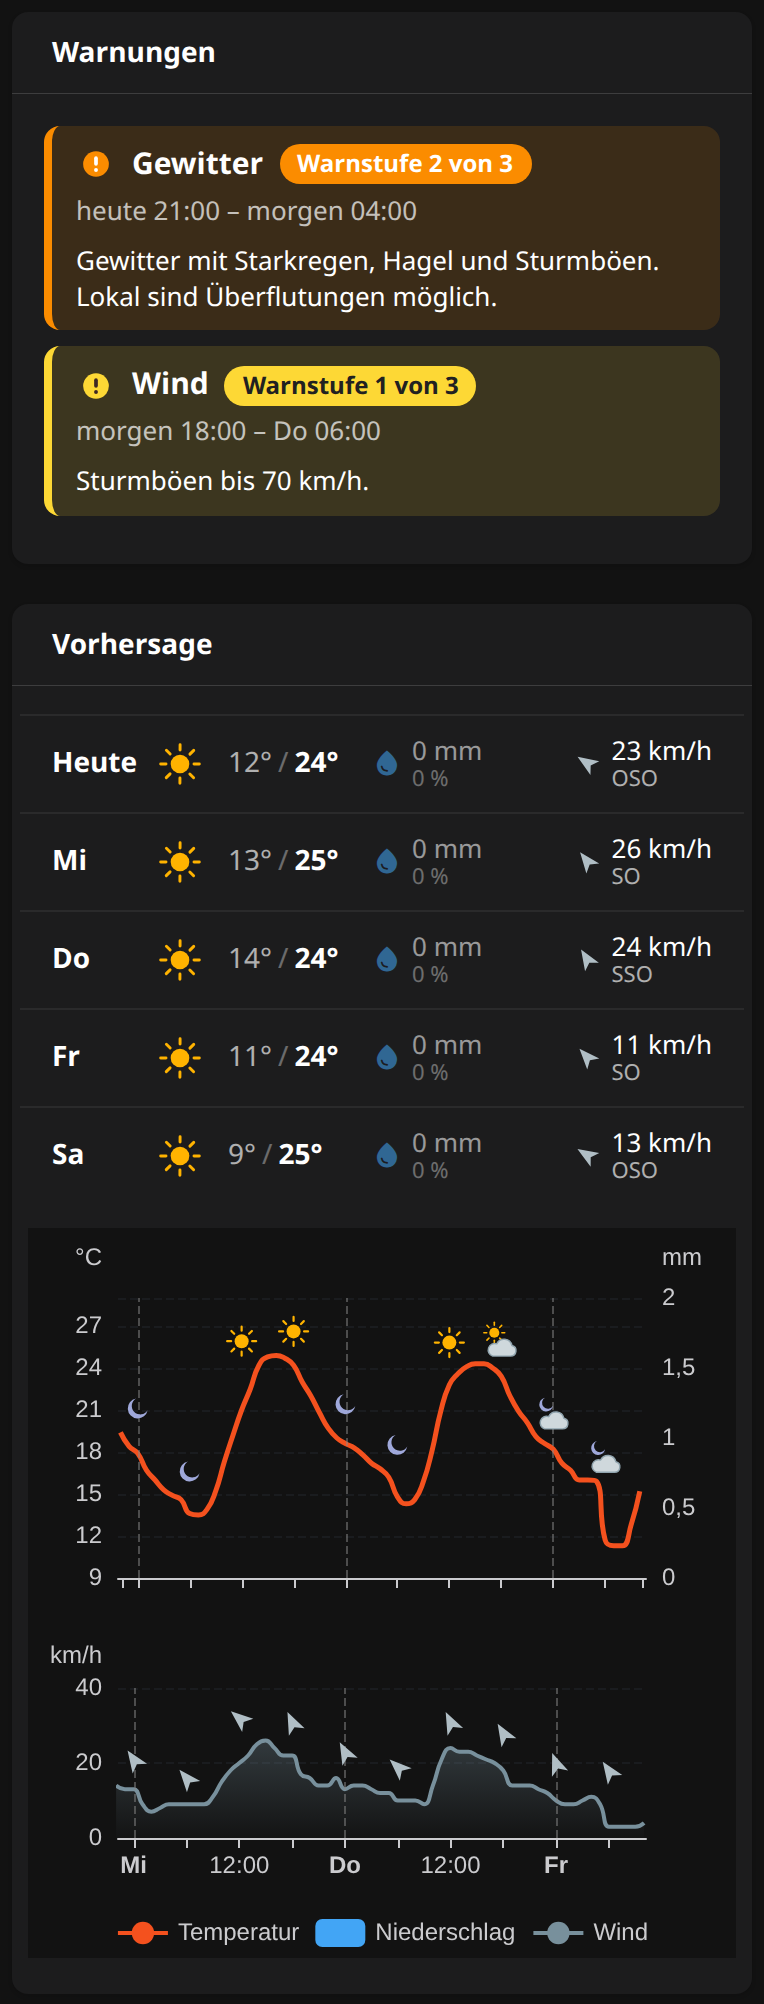
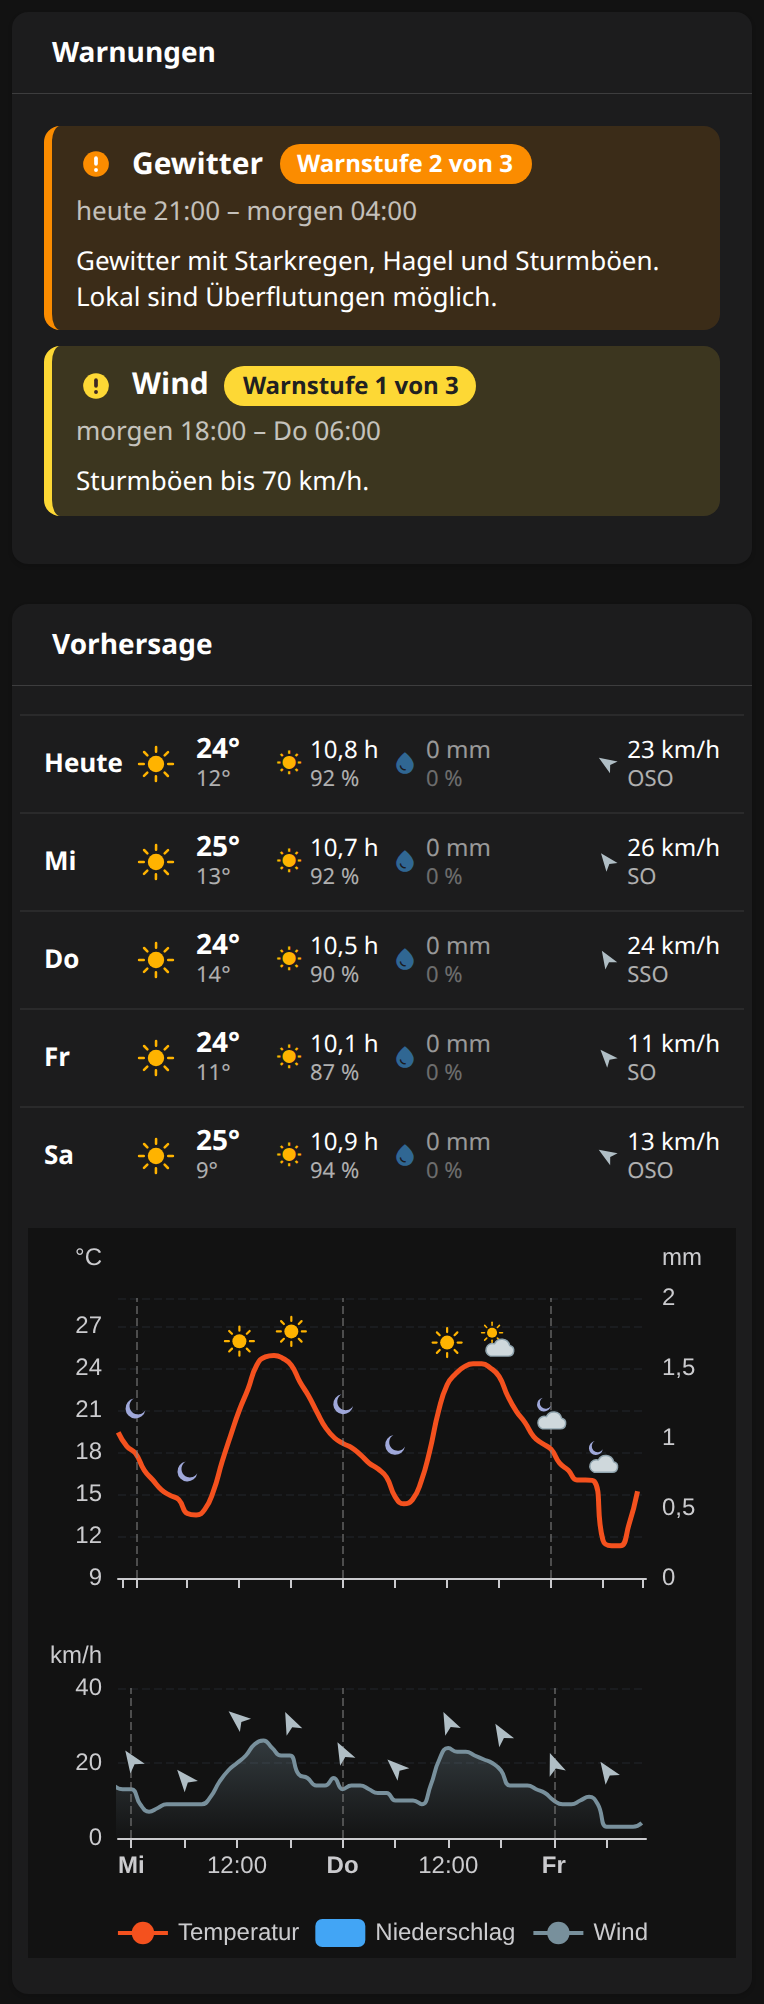
scripts: sunshine per day, German push notifications
- weather_forecast writes each day's hours of sunshine and their share of
  the daylight, sunrise to sunset being 100 %, into weather_daily
- The forecast popup's day rows show them beside a small sun; every cell
  but the precipitation's has a fixed width so the days line up, and on a
  phone the maximum stands over the minimum with slightly smaller icons,
  type and gaps, so a row fits down to 360 px
- Every push notification of the rules is German (notifications_de_update.py,
  wm2_rule.py follows); numbers in them are whole as the items show them
- README text follows, forecast popup screenshots re-shot

diff --git a/scripts/openhab-ui/applied/weather_forecast_rule.js b/scripts/openhab-ui/applied/weather_forecast_rule.js
@@ -21,7 +21,8 @@
 //                   wind direction ° (where it comes from, 0 north, 90 east), WMO code, 1 by day or 0 by night], ...]
 // weather_daily: [{t: epoch seconds of the day's midnight, c: WMO code, lo, hi: °C, p: precipitation mm,
 //                  pp: probability of precipitation % (best match) or null, w: maximum wind km/h,
-//                  wd: the day's dominant wind direction °}, ...]
+//                  wd: the day's dominant wind direction °, s: sunshine h,
+//                  sp: sunshine in % of the daylight, the most the sun could shine}, ...]
 const BASE = 'https://api.open-meteo.com/v1/forecast?latitude=48.21&longitude=16.37&timezone=Europe%2FVienna'
   + '&forecast_days=5&timeformat=unixtime'
   + '&current=weather_code,is_day,precipitation,cloud_cover_low,cloud_cover_mid,cloud_cover_high'
@@ -129,11 +130,15 @@ function day(arome, best, t) {
     return null;
   }
   const v = (field) => value([model], 'daily', field, t);
-  return {t: t, c: dayCode(v('weather_code'), v('precipitation_sum'), v('sunshine_duration'), v('daylight_duration')),
+  const sunshine = v('sunshine_duration');
+  const daylight = v('daylight_duration');
+  return {t: t, c: dayCode(v('weather_code'), v('precipitation_sum'), sunshine, daylight),
           lo: round(v('temperature_2m_min'), 1), hi: round(v('temperature_2m_max'), 1),
           p: round(v('precipitation_sum'), 1), pp: value([best], 'daily', 'precipitation_probability_max', t),
           w: round(v('wind_speed_10m_max'), 0),
-          wd: round(value([model, best], 'daily', 'wind_direction_10m_dominant', t), 0)};
+          wd: round(value([model, best], 'daily', 'wind_direction_10m_dominant', t), 0),
+          s: sunshine == null ? null : round(sunshine / 3600, 1),
+          sp: sunshine == null || !daylight ? null : Math.round(sunshine / daylight * 100)};
 }
 
 // the last run's list of an item, or none

diff --git a/scripts/openhab-ui/dashboard.py b/scripts/openhab-ui/dashboard.py
@@ -978,6 +978,7 @@ def weather_warnings_card():
 
 # the forecast chart's three series: temperature over precipitation in the upper grid, wind in the lower
 WX_TEMP_COLOR, WX_RAIN_COLOR, WX_WIND_COLOR = "#f4511e", "#42a5f5", "#78909c"
+WX_SUN_COLOR = "#ffb300"  # the sun's of the weather drawings
 # the wind's direction as the forecast gives it, the degrees it comes from (0 north, 90 east), drawn as an arrow the way
 # it blows, pointing up at 0 before it is turned; the 16 points of the compass in German, O for east
 WX_ARROW = "M12,3 L18.5,19.5 L12,15.5 L5.5,19.5 Z"
@@ -1093,36 +1094,52 @@ def weather_forecast_chart():
 
 
 def wx_day_row():
-    """A day of the popup: its name, the weather drawn, minimum and maximum, precipitation with its probability
-    under it, and the strongest wind with an arrow of the day's main direction and its compass point under it."""
+    """A day of the popup: its name, the weather drawn, minimum and maximum, the hours of sunshine with their share
+    of the daylight under it, precipitation with its probability under it, and the strongest wind with an arrow of the
+    day's main direction and its compass point under it. On a phone the maximum stands over the minimum, as every
+    other cell stands its second value under its first, and icons, type and gaps are a little smaller, so a day keeps
+    its line down to 360 px."""
     d = "loop.day"
+    n = NARROW
     name = f"(dayjs({d}.t * 1000).isSame(dayjs(), 'day') ? 'Heute' : {WX_WEEKDAYS}[dayjs({d}.t * 1000).day()])"
     degrees = lambda v: f"({v} == null ? '–' : Math.round({v}) + '°')"
     rain = f"({d}.p == null ? '–' : {d}.p < 0.05 ? '0 mm' : {fixed(d + '.p', 1)} + ' mm')"
-    small_icon = lambda icon, color: comp("oh-icon", {"icon": icon, "width": 15, "height": 15,
+    sun = f"({d}.s == null ? '–' : {fixed(d + '.s', 1)} + ' h')"
+    icon_size = f"={n} ? 13 : 15"
+    small_icon = lambda icon, color: comp("oh-icon", {"icon": icon, "width": icon_size, "height": icon_size,
                                                       "style": {"color": color, "flex": "0 0 auto"}})
-    cell = {"display": "flex", "align-items": "center", "gap": "5px", "font-size": "13px", "white-space": "nowrap"}
+    cell = {"display": "flex", "align-items": "center", "gap": f"={n} ? '4px' : '5px'",
+            "font-size": f"={n} ? '12px' : '13px'", "white-space": "nowrap"}
+    sub = {"font-size": "11px", "opacity": "0.65", "line-height": "13px"}
+
+    def pair(first, second, second_visible):
+        return div([label(f"={first}", **{"line-height": "16px"}), label(f"={second}", visible=second_visible, **sub)],
+                   **{"display": "flex", "flex-direction": "column"})
+    temps = div([label(f"={degrees(d + '.lo')}", **{"opacity": "0.65", "font-size": f"={n} ? '11px' : '14px'",
+                                                     "line-height": f"={n} ? '13px' : '18px'"}),
+                 label("/", visible=f"=!({n})", **{"opacity": "0.35"}),
+                 label(f"={degrees(d + '.hi')}", **{"font-weight": "700", "line-height": f"={n} ? '16px' : '18px'"})],
+                **{"display": "flex", "flex-direction": f"={n} ? 'column-reverse' : 'row'",
+                   "gap": f"={n} ? '0' : '3px'", "font-size": "14px", "white-space": "nowrap"})
     return div([
-        label(f"={name}", **{"font-size": "14px", "font-weight": "600"}),
-        weather_icon(f"{d}.c", "true", 32),
-        wx_min_max(degrees(f"{d}.lo"), degrees(f"{d}.hi"), "14px"),
-        div([small_icon("material:water_drop", WX_RAIN_COLOR),
-             div([label(f"={rain}", **{"line-height": "16px"}),
-                  label(f"={d}.pp + ' %'", visible=f"={d}.pp != null",
-                        **{"font-size": "11px", "opacity": "0.65", "line-height": "13px"})],
-                 **{"display": "flex", "flex-direction": "column"})],
+        label(f"={name}", **{"font-size": f"={n} ? '13px' : '14px'", "font-weight": "600"}),
+        weather_icon(f"{d}.c", "true", f"={n} ? 28 : 32"),
+        temps,
+        # the share of the daylight, from sunrise to sunset, the most the sun could shine
+        div([small_icon("material:wb_sunny", WX_SUN_COLOR), pair(sun, f"{d}.sp + ' %'", f"={d}.sp != null")],
+            **cell),
+        div([small_icon("material:water_drop", WX_RAIN_COLOR), pair(rain, f"{d}.pp + ' %'", f"={d}.pp != null")],
             **{**cell, "opacity": f"=({d}.p || 0) < 0.05 ? '0.55' : '1'"}),
         # the plain wind icon until the forecast brings a direction
-        div([wx_wind_arrow(f"{d}.wd", 15, f"={d}.wd != null"),
-             comp("oh-icon", {"icon": "material:air", "width": 15, "height": 15, "visible": f"={d}.wd == null",
-                              "style": {"color": WX_WIND_COLOR, "flex": "0 0 auto"}}),
-             div([label(f"=({d}.w == null ? '–' : {d}.w) + ' km/h'", **{"line-height": "16px"}),
-                  label(f"={wx_compass(d + '.wd')}", visible=f"={d}.wd != null",
-                        **{"font-size": "11px", "opacity": "0.65", "line-height": "13px"})],
-                 **{"display": "flex", "flex-direction": "column"})],
+        div([wx_wind_arrow(f"{d}.wd", icon_size, f"={d}.wd != null"),
+             comp("oh-icon", {"icon": "material:air", "width": icon_size, "height": icon_size,
+                              "visible": f"={d}.wd == null", "style": {"color": WX_WIND_COLOR, "flex": "0 0 auto"}}),
+             pair(f"({d}.w == null ? '–' : {d}.w) + ' km/h'", wx_compass(d + '.wd'), f"={d}.wd != null")],
             **{**cell, "justify-content": "flex-end"}),
-    ], **{"display": "grid", "grid-template-columns": "40px 32px 64px 1fr auto", "align-items": "center",
-          "column-gap": "8px", "min-height": "40px", "padding": "4px 16px",
+    ], **{"display": "grid", "align-items": "center",
+          # fixed columns but the precipitation's, so the days' cells stand under each other
+          "grid-template-columns": f"={n} ? '36px 28px 34px 52px 1fr auto' : '40px 32px 64px 58px 1fr auto'",
+          "column-gap": f"={n} ? '6px' : '8px'", "min-height": "40px", "padding": f"={n} ? '4px 12px' : '4px 16px'",
           "border-top": "1px solid rgba(127, 127, 127, 0.15)"})
 
 

diff --git a/scripts/openhab-ui/applied/notifications_de_update.py b/scripts/openhab-ui/applied/notifications_de_update.py
@@ -1,0 +1,67 @@
+#!/usr/bin/env python3
+"""Give every push notification of the rules a German text: the appliances' finished messages, the refrigerator's and
+the water meter's warnings, the heat pump's and the water meter's errors and the ventilation's CO2 alerts. Numbers are
+formatted as the items show them (whole degrees, U/min, ppm); texts the devices send (Miele programmes and drying
+targets, set to German by the account's locale; the water meter's error text) pass through as they come.
+Usage: notifications_de_update.py check|apply   (with openHAB stopped for apply)"""
+import os
+import sys
+HERE = os.path.dirname(os.path.abspath(__file__))
+src = open(os.path.join(HERE, "..", "awattar_migrate.py")).read().replace("\nmain()\n", "\n")
+m = type(sys)("m")
+exec(compile(src, "awattar_migrate", "exec"), m.__dict__)
+NAME = "automation_rules.json"
+REPLACE = {
+    "dishwasher_finished": [
+        ("'Dishwasher is ready!'", "'Geschirrspüler ist fertig!'")],
+    "tumble_dryer_finished": [
+        ("'Tumble Dryer is ready!'", "'Wäschetrockner ist fertig!'")],
+    "washing_machine_1_finished": [
+        ("'Washing Machine 1 is ready!'", "'Waschmaschine 1 ist fertig!'")],
+    "washing_machine_2_finished": [
+        ("'Washing Machine 2 is ready!'", "'Waschmaschine 2 ist fertig!'")],
+    "miele_dishwasher_finished": [
+        ("'Miele Dishwasher is ready!\\nProgram: '", "'Miele Geschirrspüler ist fertig!\\nProgramm: '")],
+    "miele_tumble_dryer_finished": [
+        ("'Miele Tumble Dryer is ready!\\nProgram: '", "'Miele Wäschetrockner ist fertig!\\nProgramm: '"),
+        ("'\\nDrying Target: '", "'\\nTrocknungsziel: '")],
+    "miele_washing_machine_finished": [
+        ("'Miele Washing Machine is ready!\\nProgram: '", "'Miele Waschmaschine ist fertig!\\nProgramm: '"),
+        ("message += '\\nTarget Temperature: ' + target_temp_item.state;",
+         "message += '\\nZieltemperatur: ' + Math.round(target_temp_item.numericState) + ' °C';"),
+        ("message += '\\nSpinning Speed: ' + spinning_speed_item.state;",
+         "message += '\\nSchleuderdrehzahl: ' + Math.round(spinning_speed_item.numericState) + ' U/min';")],
+    "refrigerator_watchdog": [
+        ("'Warning: Refrigerator power consumption is above normal, the door is possibly open!'",
+         "'Warnung: Der Kühlschrank verbraucht mehr Strom als üblich, die Tür steht möglicherweise offen!'")],
+    "ventilation_management": [
+        ("'Netatmo Weatherstation: CO2 high at ' + co2_item.state",
+         "'Netatmo Wetterstation: CO2 hoch, ' + Math.round(co2_item.numericState) + ' ppm'"),
+        ("'Netatmo Weatherstation: CO2 back to normal at ' + co2_item.state",
+         "'Netatmo Wetterstation: CO2 wieder normal, ' + Math.round(co2_item.numericState) + ' ppm'")],
+    "heatpump_error": [
+        ("'Heatpump Error!\\nType: ' + error_type + '\\nCode: '",
+         "'Wärmepumpe meldet einen Fehler!\\nTyp: ' + ({Warning: 'Warnung', Error: 'Fehler'}[error_type] || error_type)\n"
+         "        + '\\nCode: '")],
+    "water_meter_error": [
+        ("'Water Meter Error!\\n' + error", "'Wasserzähler meldet einen Fehler!\\n' + error")],
+    "water_meter_watchdog": [
+        ("'Warning: Water meter is offline!'", "'Warnung: Der Wasserzähler ist offline!'"),
+        ("'Warning: Constant flow measured at water meter for ' + threshold_flow_minutes + ' minutes.\\nCheck for leaks!'",
+         "'Warnung: Der Wasserzähler misst seit ' + threshold_flow_minutes + ' Minuten ununterbrochen Durchfluss.\\n'\n"
+         "        + 'Bitte auf Lecks prüfen!'")],
+}
+data, enc = m.detect(m.DB + NAME)
+for uid, pairs in REPLACE.items():
+    (action,) = data[uid]["value"]["actions"]
+    script = action["configuration"]["script"]
+    for old, new in pairs:
+        assert script.count(old) == 1, (uid, old)
+        script = script.replace(old, new)
+    action["configuration"]["script"] = script
+    print(f"{uid}: {len(pairs)} text(s)")
+text = m.encode(data, *enc)
+print(f"{NAME}: encoder html={enc[0]} newline={enc[1]} ok; {len(REPLACE)} rules")
+if sys.argv[1] == "apply":
+    open(m.DB + NAME, "w", encoding="utf-8").write(text)
+    print("written")

diff --git a/scripts/openhab-ui/i18n/de_labels.py b/scripts/openhab-ui/i18n/de_labels.py
@@ -282,7 +282,7 @@ RULE_DESCRIPTIONS = {
     "heatpump_dcop": "Berechnet jede Minute die Tages-COPs aus den Energie-Integralen von heatpump_metering; das 5-Sekunden-Fenster um Mitternacht in persistCop ist Absicht.",
     "heatpump_error": "Schickt eine Benachrichtigung mit Code und deutscher Beschreibung, wenn die Wärmepumpe einen anderen Fehlertyp als Normal meldet.",
     "heatpump_dhw_management": "Warmwasser-Steuerung: wählt den Warmwasser-Sollwert nach Tageszeit und PV-Überschuss und zwingt die Wärmepumpe über Smart Grid an, wenn der Speicher voll und der Überschuss hoch ist.",
-    "weather_forecast": "Holt um :07 und :37 jeder Stunde und beim Start das aktuelle Wetter, die nächsten 61 Stunden und fünf Tage von Open-Meteo, Modell GeoSphere AROME Austria (was es nicht abdeckt, aus dem Best Match), für Wien, mit der Windrichtung jeder Stunde und der vorherrschenden jedes Tages; das Wetter eines Tages folgt seinem Sonnenanteil, das jeder Stunde und das aktuelle den Wolkenschichten, Nebel, Niederschlag und Gewitter nur, wenn sie ins Gewicht fallen; wiederholt fehlgeschlagene Anfragen und behält Stunden und Tage, die ein Lauf nicht bringt, aus dem letzten Lauf.",
+    "weather_forecast": "Holt um :07 und :37 jeder Stunde und beim Start das aktuelle Wetter, die nächsten 61 Stunden und fünf Tage von Open-Meteo, Modell GeoSphere AROME Austria (was es nicht abdeckt, aus dem Best Match), für Wien, mit der Windrichtung jeder Stunde und der vorherrschenden jedes Tages sowie den Sonnenstunden jedes Tages und ihrem Anteil an der Tageslänge; das Wetter eines Tages folgt seinem Sonnenanteil, das jeder Stunde und das aktuelle den Wolkenschichten, Nebel, Niederschlag und Gewitter nur, wenn sie ins Gewicht fallen; wiederholt fehlgeschlagene Anfragen und behält Stunden und Tage, die ein Lauf nicht bringt, aus dem letzten Lauf.",
     "weather_warnings": "Holt alle 15 Minuten und beim Start die amtlichen Wetterwarnungen der GeoSphere Austria für Wien: die höchste Stufe der Warnungen, die jetzt oder in den nächsten 24 Stunden gelten, diese als Kurztext und alle noch nicht abgelaufenen Warnungen als JSON, für die Wetterleiste der Übersicht und ihr Popup; steigt die Stufe auf Orange oder Rot, geht eine Broadcast-Benachrichtigung hinaus.",
     "heatpump_metering": "Teilt die elektrische Leistung der Wärmepumpe in Heizung, Warmwasser und Standby, leitet die Heizleistung aus Durchfluss und Spreizung ab, berechnet momentane COPs und integriert alles mit einem gemeinsamen Zeitschritt zu den Energien von heute.",
     "home_energy": "Berechnet den Energieverbrauch des Hauses heute aus PV-Ertrag und Netzbezug/-einspeisung seit Mitternacht.",

diff --git a/scripts/openhab-ui/applied/weather_sunshine_update.py b/scripts/openhab-ui/applied/weather_sunshine_update.py
@@ -1,0 +1,23 @@
+#!/usr/bin/env python3
+"""Give the rule weather_forecast the script beside this script (weather_forecast_rule.js), which also writes each
+day's hours of sunshine and their share of the daylight into weather_daily, for the forecast popup's day rows.
+Usage: weather_sunshine_update.py check|apply   (with openHAB stopped for apply)"""
+import os
+import sys
+HERE = os.path.dirname(os.path.abspath(__file__))
+src = open(os.path.join(HERE, "..", "awattar_migrate.py")).read().replace("\nmain()\n", "\n")
+m = type(sys)("m")
+exec(compile(src, "awattar_migrate", "exec"), m.__dict__)
+sys.path.insert(0, os.path.join(HERE, "..", "i18n"))
+from de_labels import RULE_DESCRIPTIONS  # noqa: E402
+NAME = "automation_rules.json"
+data, enc = m.detect(m.DB + NAME)
+rule = data["weather_forecast"]["value"]
+(action,) = rule["actions"]
+action["configuration"]["script"] = open(os.path.join(HERE, "weather_forecast_rule.js")).read()
+rule["description"] = RULE_DESCRIPTIONS["weather_forecast"]
+text = m.encode(data, *enc)
+print(f"{NAME}: encoder html={enc[0]} newline={enc[1]} ok; weather_forecast script {len(action['configuration']['script'])} chars")
+if sys.argv[1] == "apply":
+    open(m.DB + NAME, "w", encoding="utf-8").write(text)
+    print("written")

diff --git a/scripts/openhab-ui/make_readme.py b/scripts/openhab-ui/make_readme.py
@@ -474,7 +474,8 @@ nodes: the sun, its rays turning slowly, or the moon while `day` is false, alone
 a small cloud when partly cloudy (1, 2); a cloud (3), raised over fog (45, 48), falling rain (drizzle, rain and
 showers: 51 to 67, 80 to 82), drifting snow (71 to 77, 85, 86) or a flickering bolt (95 to 99). Nothing while `code`
 is no number, as an item is `NULL` after a restart. My weather bar shows the present weather with it, and my forecast
-popup each day's, beside the strongest wind with an arrow of its dominant direction and its compass point, above a
+popup each day's, beside its hours of sunshine with their share of the daylight and the strongest wind with an arrow
+of its dominant direction and its compass point, above a
 chart of the next 60 hours: temperature with the weather drawn above it and over the precipitation of each hour, the
 wind below with arrows of its direction, both every three hours; ECharts takes no widget, so the drawings there are
 this widget's layers as still SVG images. That popup is a page of my installation, not a widget of this repository; its rule writes the forecast as JSON

diff --git a/scripts/openhab-ui/applied/wm2_rule.py b/scripts/openhab-ui/applied/wm2_rule.py
@@ -22,7 +22,7 @@ const peak = power_item.persistence.maximumSince(now.minusMinutes(15));
 if (finished_item.state === 'OFF' && power !== null && power >= 1
     && average !== null && average.numericState <= 5 && peak !== null && peak.numericState >= 50) {
   finished_item.postUpdate('ON');
-  actions.NotificationAction.sendBroadcastNotification('Washing Machine 2 is ready!');
+  actions.NotificationAction.sendBroadcastNotification('Waschmaschine 2 ist fertig!');
 }
 
 // emptied: the machine is switched off to unload it (below 1 W), or a new program starts

diff --git a/README.md b/README.md
@@ -960,14 +960,14 @@ The weather drawn from a WMO code in the style of the energy flow's nodes: the s
 while `day` is false, alone when it is clear (code 0) and behind a small cloud when partly cloudy (1, 2); a cloud (3),
 raised over fog (45, 48), falling rain (drizzle, rain and showers: 51 to 67, 80 to 82), drifting snow (71 to 77, 85, 86)
 or a flickering bolt (95 to 99). Nothing while `code` is no number, as an item is `NULL` after a restart. My weather bar
-shows the present weather with it, and my forecast popup each day's, beside the strongest wind with an arrow of its
-dominant direction and its compass point, above a chart of the next 60 hours: temperature with the weather drawn above
-it and over the precipitation of each hour, the wind below with arrows of its direction, both every three hours; ECharts
-takes no widget, so the drawings there are this widget's layers as still SVG images. That popup is a page of my
-installation, not a widget of this repository; its rule writes the forecast as JSON into String items, and the chart
-reads them through an `oh-data-series` whose `data` is an expression such as
-`=JSON.parse(items.weather_hourly.state).map((r) => [r[0] * 1000, r[1]])`, with no persistence involved. The warnings in
-the screenshots are demo values.
+shows the present weather with it, and my forecast popup each day's, beside its hours of sunshine with their share of
+the daylight and the strongest wind with an arrow of its dominant direction and its compass point, above a chart of the
+next 60 hours: temperature with the weather drawn above it and over the precipitation of each hour, the wind below with
+arrows of its direction, both every three hours; ECharts takes no widget, so the drawings there are this widget's layers
+as still SVG images. That popup is a page of my installation, not a widget of this repository; its rule writes the
+forecast as JSON into String items, and the chart reads them through an `oh-data-series` whose `data` is an expression
+such as `=JSON.parse(items.weather_hourly.state).map((r) => [r[0] * 1000, r[1]])`, with no persistence involved. The
+warnings in the screenshots are demo values.
 
 | Light | Dark |
 |---|---|
